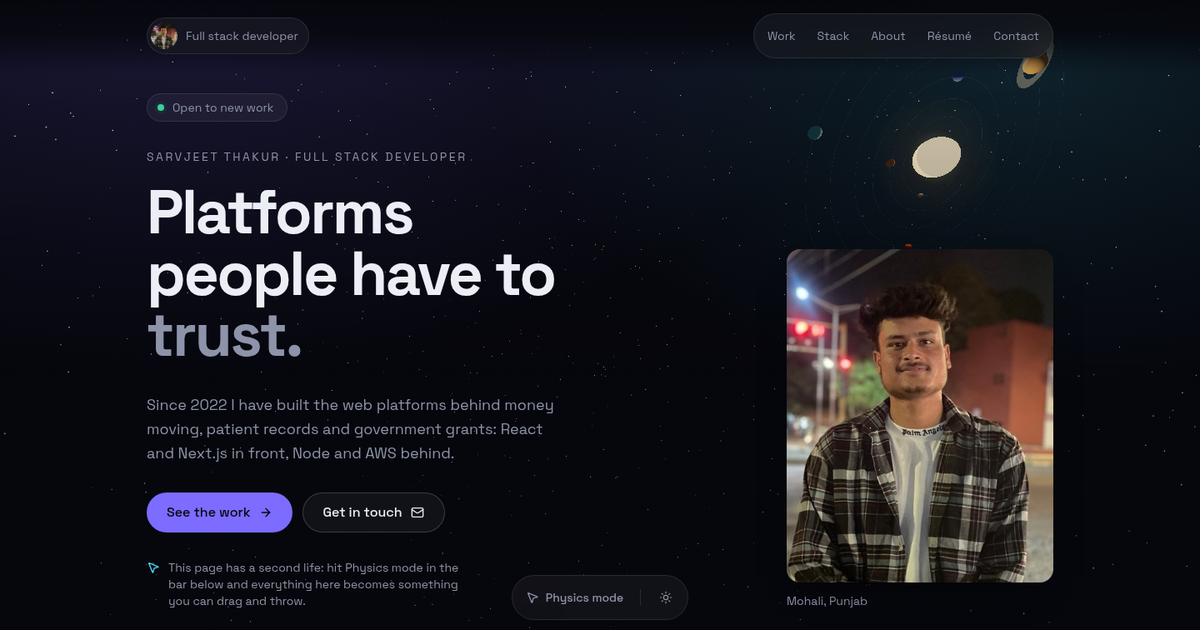
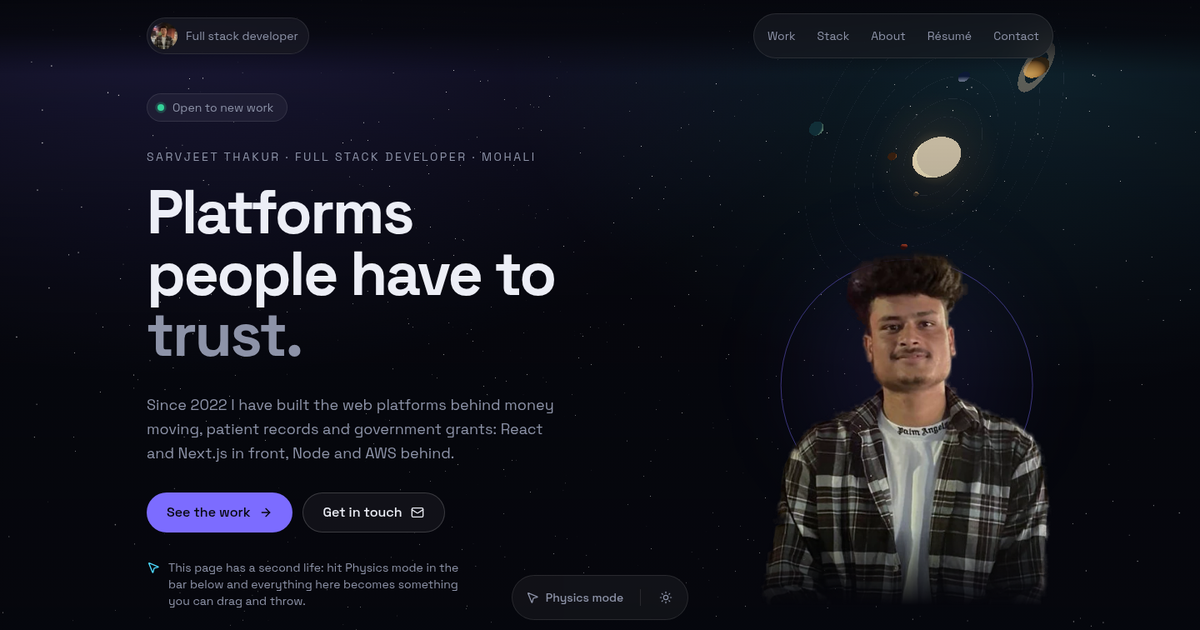
Added system restriction

diff --git a/src/modules/portfolio/components/PortraitReveal.tsx b/src/modules/portfolio/components/PortraitReveal.tsx
@@ -5,14 +5,17 @@ import type { PointerEvent } from "react";
 import type { ContentImage } from "../types";
 
 /**
- * A monochrome portrait that shows its colour only in a soft circle around
- * the pointer. Two copies of one image: the grey one underneath, the colour
- * one on top behind a radial mask that follows the cursor.
+ * The hero portrait: the subject cut out of its background, standing on the
+ * page itself with a single orbit ring behind it rather than sitting in a
+ * card. The ring is the page's own motif — the starfield's orbits — at the
+ * one size a person can overlap, which is what separates the figure from the
+ * sky without a frame around it.
  *
- * The position goes straight into CSS variables, never React state, so
- * moving the pointer repaints the mask without re-rendering anything. Where
- * there is no hover (touch), there is nothing to reveal with, so the portrait
- * is simply in colour.
+ * Colour appears only in a circle around the pointer: two copies of one
+ * image, the grey one underneath and the colour one behind a radial mask.
+ * The pointer position goes straight into CSS variables, never React state,
+ * so moving it repaints the mask without re-rendering anything. Where there
+ * is no hover there is nothing to reveal with, so touch gets colour outright.
  */
 export function PortraitReveal({ image }: { image: ContentImage }) {
   function track(event: PointerEvent<HTMLDivElement>) {
@@ -21,31 +24,43 @@ export function PortraitReveal({ image }: { image: ContentImage }) {
     event.currentTarget.style.setProperty("--spot-y", `${event.clientY - box.top}px`);
   }
 
+  const portrait = "absolute inset-0 size-full object-contain object-bottom";
+
   return (
-    <div
-      onPointerMove={track}
-      className="group/portrait relative aspect-[4/5] overflow-hidden rounded-card bg-surface-solid shadow-lift"
-    >
-      <Image
-        src={image.src}
-        alt={image.alt}
-        fill
-        sizes="20rem"
-        // Above the fold on desktop, and served exactly as supplied.
-        loading="eager"
-        unoptimized
-        className="object-cover object-[50%_15%] [@media(hover:hover)]:grayscale"
-      />
-      {/* Same file, so no second download. Decorative: the copy below is the one announced. */}
-      <Image
-        src={image.src}
-        alt=""
-        aria-hidden
-        fill
-        sizes="20rem"
-        unoptimized
-        className="hidden [mask-image:radial-gradient(circle_11rem_at_var(--spot-x,50%)_var(--spot-y,50%),#000_30%,transparent)] object-cover object-[50%_15%] opacity-0 transition-opacity duration-300 group-hover/portrait:opacity-100 [@media(hover:hover)]:block"
-      />
+    <div onPointerMove={track} className="group/portrait relative">
+      {/* Decorative, and sized off the figure so it tracks every breakpoint. */}
+      <div aria-hidden className="pointer-events-none absolute inset-0">
+        <div className="absolute top-[3%] left-1/2 aspect-square w-[86%] -translate-x-1/2 rounded-full border border-accent/45" />
+        <div className="absolute top-[8%] left-1/2 aspect-square w-[62%] -translate-x-1/2 rounded-full bg-accent/12 blur-3xl" />
+      </div>
+
+      {/*
+        The source photo ends at the waist, so without this the figure is
+        sliced off by a hard horizontal edge; the fade lets it dissolve into
+        the page instead.
+      */}
+      <div className="relative aspect-[421/517] [mask-image:linear-gradient(to_bottom,#000_78%,transparent_99%)]">
+        <Image
+          src={image.src}
+          alt={image.alt}
+          fill
+          sizes="22rem"
+          // Above the fold on desktop, and served exactly as supplied.
+          loading="eager"
+          unoptimized
+          className={`${portrait} [@media(hover:hover)]:grayscale`}
+        />
+        {/* Same file, so no second download. Decorative: the copy above is the one announced. */}
+        <Image
+          src={image.src}
+          alt=""
+          aria-hidden
+          fill
+          sizes="22rem"
+          unoptimized
+          className={`${portrait} hidden [mask-image:radial-gradient(circle_11rem_at_var(--spot-x,50%)_var(--spot-y,50%),#000_30%,transparent)] opacity-0 transition-opacity duration-300 group-hover/portrait:opacity-100 [@media(hover:hover)]:block`}
+        />
+      </div>
     </div>
   );
 }

diff --git a/src/modules/portfolio/components/Hero.tsx b/src/modules/portfolio/components/Hero.tsx
@@ -6,6 +6,9 @@ import { PortraitReveal } from "./PortraitReveal";
 
 const { greeting, headline, intro, actions, physicsNote, stats } = site.hero;
 
+/** The hero stands the subject on the page; the framed photo is the fallback. */
+const portrait = about.portraitCutout ?? about.portrait;
+
 /* Module scope: resolved at build time. See `tenure.ts`. */
 const YEARS = String(yearsSince(site.career.startDate));
 
@@ -33,7 +36,7 @@ export function Hero() {
           {/* Name and role inside the h1: the poster line alone ranks for nothing. */}
           <h1 className="flex flex-col gap-5" {...physicsProps(BodyKind.Title)}>
             <span className="text-sm tracking-[0.18em] text-muted uppercase">
-              {site.name} · {site.role}
+              {site.name} · {site.role} · {site.location.locality}
             </span>
             <span className="font-display text-hero font-bold">
               {headline.map((line, i) => (
@@ -82,16 +85,13 @@ export function Hero() {
           </p>
         </div>
 
-        {about.portrait ? (
-          <figure
+        {portrait ? (
+          <div
             {...physicsProps(BodyKind.Card)}
-            className="flex w-full max-w-[20rem] flex-col gap-3 lg:justify-self-end"
+            className="mx-auto w-full max-w-[18rem] self-end sm:max-w-[20rem] lg:mx-0 lg:max-w-[22rem] lg:justify-self-end"
           >
-            <PortraitReveal image={about.portrait} />
-            <figcaption className="text-sm text-muted">
-              {site.location.locality}, {site.location.region}
-            </figcaption>
-          </figure>
+            <PortraitReveal image={portrait} />
+          </div>
         ) : null}
       </div>
 

diff --git a/src/modules/portfolio/types.ts b/src/modules/portfolio/types.ts
@@ -111,6 +111,12 @@ export type AboutContent = {
   paragraphs: string[];
   /** Optional: the section reflows without it rather than leaving a hole. */
   portrait?: ContentImage;
+  /**
+   * The same photo with its background removed, for the hero, where the
+   * subject stands on the page itself rather than inside a card. Optional:
+   * without it the hero falls back to the framed `portrait`.
+   */
+  portraitCutout?: ContentImage;
   domainsHeading: string;
   domains: Domain[];
 };

diff --git a/AGENTS.md b/AGENTS.md
@@ -68,6 +68,7 @@ This file is the single source of rules for every agent. `CLAUDE.md` only import
 - `src/app/robots.ts`, `src/app/sitemap.ts`, `icon.tsx` and `apple-icon.tsx` exist and all read `SITE_URL` from `@/modules/portfolio`. That resolves `NEXT_PUBLIC_SITE_URL`, which **must** be set in the deploy environment: unset, every canonical and absolute URL points at localhost.
 - `public/og.png` and `public/screenshots/*.png` are **captures of the live site**, not drawn in code, so they go stale after any visual change to the hero. Regenerate them from a production server (`pnpm build && pnpm start`) so the dev badge and presence bar are not in the shot: the Open Graph image is the home page at 1440×756 scaled to 1200×630, the manifest screenshots are 1280×720 and 390×844 — the sizes in `OG_IMAGE` and `SCREENSHOTS` (`portfolio/constants.ts`). The image is named in `metadata` rather than left to the `opengraph-image` file convention: a route that sets its own `openGraph`, as `/resume` does, drops an inherited file-based image, so each such route must restate `images`.
 - Structured data is one `Person` graph with the projects as `CreativeWork`, built in `portfolio/lib/structured-data.ts`. It is injected inline, so the `<` escaping in that file is load-bearing — a `</script>` inside any content string would close the tag early.
+- `public/portrait-cutout.webp` is **generated** from `public/portrait.jpg`, not a separate photo: the background removed with `rembg` (`isnet-general-use`, alpha matting), trimmed to the subject, warmed down by about 5% red and up 8% blue to pull the street-light cast out, then saved as WebP at quality 90. It is the hero portrait; `portrait.jpg` stays the source of truth and is what the nav avatar, the résumé page and the generated icons use. Replace the photo and both have to be redone. The tool is not a project dependency — it was run once through `uv run --with rembg --with onnxruntime --with pymatting`.
 - `public/sarvjeet-thakur-resume.pdf` is **generated**, not hand-made: it is `/resume` printed to PDF, so it carries the same content as the page and none of the client URLs kept off this site. Regenerate it after changing `resume.json`, `projects.json`, `stack.json` or `about.json`, or the download drifts from the page: with the dev server up, `agent-browser open http://localhost:3000/resume` then `agent-browser pdf public/sarvjeet-thakur-resume.pdf`.
 - Anything in `public/` is served to the whole internet whether the repo is private or not. A file is not protected by repo visibility — check what is inside it before adding it.
 - Tenure is derived, never typed: `career.startDate` in `site.json` is the only place a start date lives, the hero stat renders `{years}` from `yearsSince()` at build time, and the prose says "since 2022" so it cannot go stale. Do not reintroduce a hardcoded year count — it was previously written out in four separate files.

diff --git a/DESIGN.md b/DESIGN.md
@@ -48,7 +48,7 @@ A moving body cannot afford that blur — a backdrop filter on something that ge
 ## Layout
 
 - One page, one column, max width `6xl`, with a fixed nav at the top and a floating control bar at the bottom.
-- The hero fills the viewport: a split, words on the left and a monochrome portrait on the right that shows its colour only in a soft circle around the pointer (and is simply in colour where there is no hover), bottom-aligned so the solar system keeps the upper right; a quiet stats row closes it. The hero headline uses `--text-hero`, a step below `--text-display`, so it fits beside the portrait. Work alternates two wide featured cards with a two-column grid. About is a two-column split of prose and domains. Contact leads with a large statement.
+- The hero fills the viewport: a split, words on the left and the portrait on the right cut out of its background so the subject stands on the starfield itself, with one orbit ring behind it at the size a person can overlap and its lower edge faded into the page; it is monochrome and shows colour only in a soft circle around the pointer (and is simply in colour where there is no hover), bottom-aligned so the solar system keeps the upper right; a quiet stats row closes it. The hero headline uses `--text-hero`, a step below `--text-display`, so it fits beside the portrait. Work alternates two wide featured cards with a two-column grid. About is a two-column split of prose and domains. Contact leads with a large statement.
 - Every project card carries an image, the industry it is in (not a year), a role, a headline metric and its stack. A project with no public URL is a plain card with no link — a login wall or a staging host is not a portfolio link.
 
 ## Physics mode
